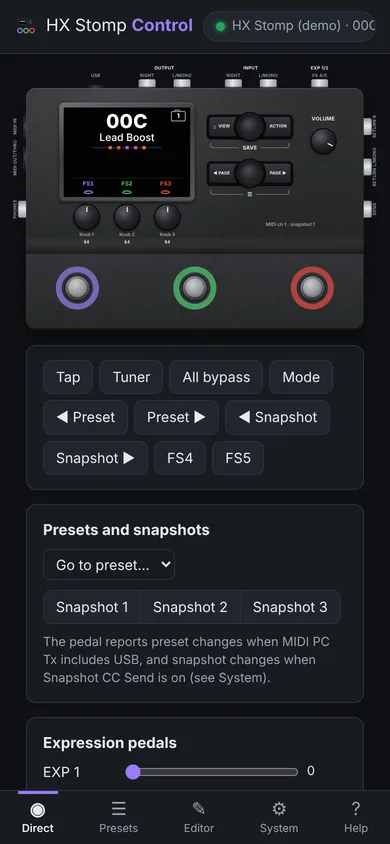
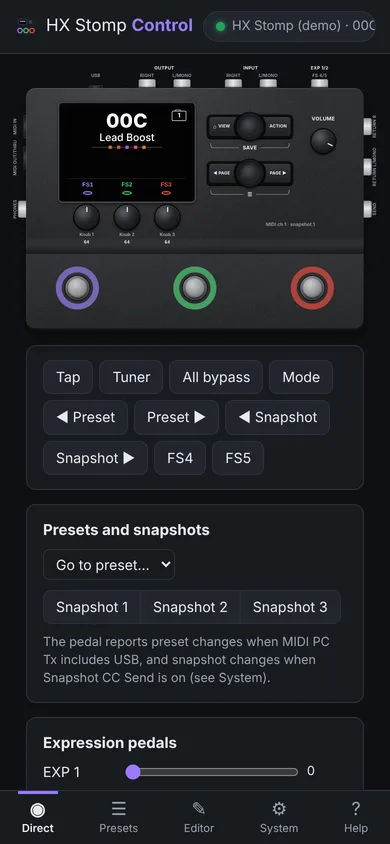
Direct mode: screen in a black frame with a thin grey rim, like the pedal

Changed region(s): [[0.1231, 0.1232, 0.5231, 0.2464]]

diff --git a/web/css/style.css b/web/css/style.css
@@ -202,10 +202,11 @@ table.grid th { font-size: 12px; color: var(--muted); font-weight: 600; }
 .hxpanel .jlabel { font: 600 12px/1 system-ui, sans-serif; letter-spacing: .3px; color: var(--muted); white-space: nowrap; }
 .hxpanel .screw { width: 14px; height: 14px; border-radius: 50%; background: radial-gradient(circle at 40% 35%, #8a8d92, #2c2d31 70%); box-shadow: inset 0 0 0 1px #000; }
 .hxpanel .screw::after { content: ''; position: absolute; left: 3px; right: 3px; top: 6px; height: 2px; background: #111; transform: rotate(35deg); }
-.bezel { width: 370px; height: 270px; padding: 13px; border-radius: 14px;
-  background: linear-gradient(160deg, #6d7076, #3a3c41 40%, #55585e 100%);
-  box-shadow: inset 0 1px 0 rgba(255,255,255,.35), inset 0 -2px 3px rgba(0,0,0,.6), 0 3px 8px rgba(0,0,0,.6); }
-.bezel .lcd { position: relative; width: 100%; height: 100%; min-height: 0; border: 0; border-radius: 4px; padding: 10px 14px 8px; background: #030304;
+/* The screen sits in a black frame with a thin, slightly raised grey rim. */
+.bezel { width: 370px; height: 270px; padding: 11px; border-radius: 9px; background: #050506;
+  box-shadow: 0 0 0 3px #4b4e54, 0 0 0 4px #1a1b1e, inset 0 0 0 1px #1c1d20, 0 4px 10px rgba(0,0,0,.6);
+  border-top: 1px solid rgba(255,255,255,.08); }
+.bezel .lcd { position: relative; width: 100%; height: 100%; min-height: 0; border: 0; border-radius: 2px; padding: 10px 14px 8px; background: #030304;
   box-shadow: inset 0 0 22px rgba(0,0,0,1), inset 0 0 0 1px #000; display: flex; flex-direction: column; align-items: stretch; overflow: hidden; }
 .bezel .lcd .pn { font: 800 52px/1 "Helvetica Neue", Arial, sans-serif; text-align: center; letter-spacing: 1px; color: #fff; margin-top: 2px; }
 .bezel .lcd .pname { font: 500 28px/1.15 "Helvetica Neue", Arial, sans-serif; text-align: center; color: #fff; margin: 2px 0 6px; white-space: nowrap; overflow: hidden; text-overflow: ellipsis; }
